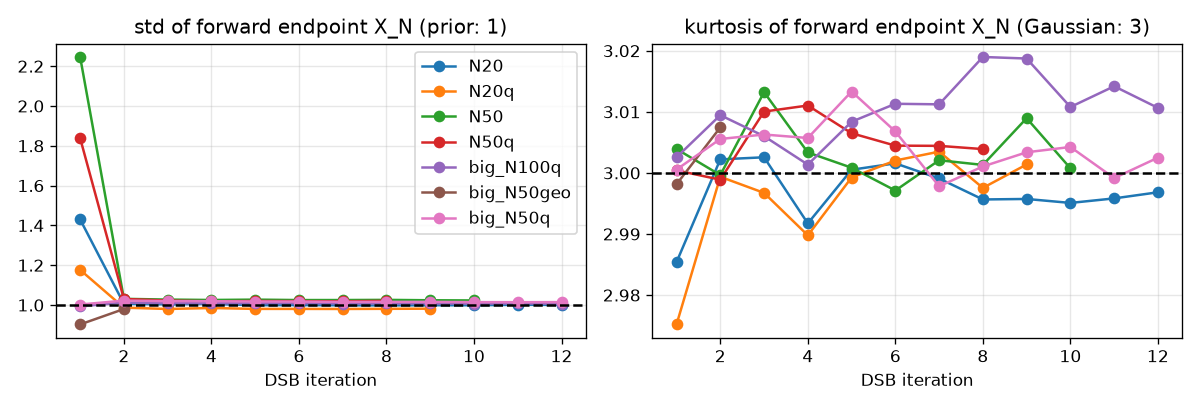
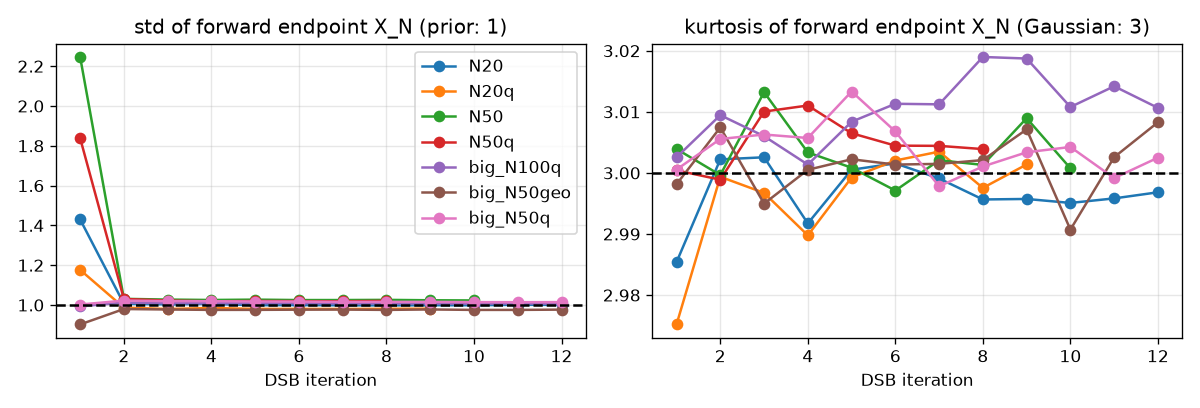
Final results incl. completed geometric run (FID 186 -> 112)

diff --git a/README.md b/README.md
@@ -257,22 +257,22 @@ is designed for.
 **FID (5 000 samples) per DSB iteration.**  Iteration 1 is the classical score-based model
 obtained from the first backward half-step; every further row is one more IPF iteration.  The
 table is regenerated by `scripts/plot_results.py` (`figures/fid_table.md`).  All runs are
-complete except `big_N50geo`, see *Status* below.
+complete.
 
 | DSB iteration | N20 | N20q | N50 | N50q | big_N100q | big_N50geo | big_N50q |
 |---|---|---|---|---|---|---|---|
 | 1 | 309.0 | 271.0 | 188.5 | 137.3 | 63.0 | 185.9 | 113.4 |
 | 2 | 280.1 | 243.9 | 157.0 | 119.4 | 46.8 | 153.6 | 70.8 |
-| 3 | 262.2 | 233.3 | 155.7 | 124.2 | 45.6 |  | 69.3 |
-| 4 | 259.1 | 232.2 | 154.5 | 125.2 | 46.0 |  | 67.8 |
-| 5 | 243.1 | 215.6 | 153.8 | 116.0 | 46.0 |  | 69.1 |
-| 6 | 236.8 | 214.6 | 151.4 | 119.8 | 44.7 |  | 68.1 |
-| 7 | 228.8 | 205.1 | 153.1 | 118.9 | 43.4 |  | 70.1 |
-| 8 | 229.0 | 200.9 | 150.6 | 120.2 | 43.5 |  | 71.3 |
-| 9 | 222.9 | 194.0 | 150.3 |  | 46.1 |  | 68.4 |
-| 10 | 225.0 |  | 155.2 |  | 45.4 |  | 67.2 |
-| 11 | 217.0 |  |  |  | 45.7 |  | 66.3 |
-| 12 | 210.2 |  |  |  | 45.8 |  | 69.8 |
+| 3 | 262.2 | 233.3 | 155.7 | 124.2 | 45.6 | 153.4 | 69.3 |
+| 4 | 259.1 | 232.2 | 154.5 | 125.2 | 46.0 | 137.6 | 67.8 |
+| 5 | 243.1 | 215.6 | 153.8 | 116.0 | 46.0 | 140.5 | 69.1 |
+| 6 | 236.8 | 214.6 | 151.4 | 119.8 | 44.7 | 135.8 | 68.1 |
+| 7 | 228.8 | 205.1 | 153.1 | 118.9 | 43.4 | 139.9 | 70.1 |
+| 8 | 229.0 | 200.9 | 150.6 | 120.2 | 43.5 | 132.2 | 71.3 |
+| 9 | 222.9 | 194.0 | 150.3 |  | 46.1 | 127.5 | 68.4 |
+| 10 | 225.0 |  | 155.2 |  | 45.4 | 122.5 | 67.2 |
+| 11 | 217.0 |  |  |  | 45.7 | 117.9 | 66.3 |
+| 12 | 210.2 |  |  |  | 45.8 | 112.1 | 69.8 |
 
 ![fid](figures/cifar_fid.png)
 
@@ -294,7 +294,14 @@ What the numbers show:
   DSB iterations** — the best result of this project, obtained in 7 hours on 6 A100s.  In both
   big runs the second half-step is the single largest improvement, i.e. the bridge correction
   pays off most when the networks have the capacity to represent it.
-* The gain per iteration flattens after 2-8 iterations at these training budgets; the paper's
+* **The paper's own regime (`big_N50geo`, T = 0.63)** behaves differently: the reference chain
+  leaves half of the image in X_N, the first (SGM) iteration is poor (FID 186), and IPF then
+  improves the model almost monotonically over all 12 iterations, 186 → 154 → 138 → 132 → 122 → 112,
+  still falling at the end.  This is the Schrödinger-bridge mechanism the paper advertises — a
+  too-short forward process repaired by IPF — and, at equal compute, it is also the reason to
+  prefer a horizon where the reference already comes close to the prior: the N = 50 quadratic run
+  with T = 1.7 plateaus at 66-70 after two iterations.
+* The gain per iteration flattens after 2-8 iterations when the horizon is long; the paper's
   Figure 6 shows the same saturation.  Further progress would come from more steps N and longer
   half-steps rather than from more IPF iterations.
 
@@ -318,6 +325,14 @@ The best model, `big_N100q` (N = 100, 36M parameters), after its first half-step
 |---|---|
 | ![](figures/cifar10_big_N100q_samples_iter01.png) | ![](figures/cifar10_big_N100q_samples_last.png) |
 
+The paper's short-horizon regime, `big_N50geo` (T = 0.63): after the first half-step (FID 186)
+the samples are fragmented textures; after 12 DSB iterations (FID 112) objects and scenes emerge,
+though noisier than with the longer horizon:
+
+| `big_N50geo` iter 1 | `big_N50geo` iter 12 |
+|---|---|
+| ![](figures/cifar10_big_N50geo_samples_iter01.png) | ![](figures/cifar10_big_N50geo_samples_last.png) |
+
 Trajectory strips (`figures/*_trajectory_*.png`, rows k = N, 3N/4, N/2, N/4, 0) show the backward
 chain from Gaussian noise to a sample, and `figures/*_forward_*.png` the learnt forward chain
 from data to the prior.  The forward-endpoint diagnostics below confirm the mechanism of DSB:
@@ -330,15 +345,12 @@ the implementation notes).
 
 ### Status
 
-Final state (2026-09-15 20:40 UTC).  Complete: Gaussian check, toys and toy sweep, the four
+All runs are complete (2026-09-16 05:50 UTC): Gaussian check, toys and toy sweep, the four
 single-GPU CIFAR runs (`N20` all 12 iterations; `N50`, `N50q`, `N20q` stopped after 10, 8 and 8
-once their FID curves had flattened), and the two 6-GPU runs `big_N50q` (12 iterations, 10.5 h)
-and `big_N100q` (12 iterations, 7 h).  Incomplete: `big_N50geo` (the paper's T = 0.63 horizon)
-stopped at iteration 2 (FID 186 → 154); its 6-GPU job was pre-empted by the N = 100 run when the
-cluster filled up, and the 2-GPU job that resumed it hung for its whole 12-hour allocation in the
-NCCL clique set-up on `hyperplane-4` (`logs/cifar_big_geo_525234.err`) without running a single
-step.  Its checkpoint `runs/cifar10_big_N50geo/ckpt/iter001_backward.eqx` resumes with the
-command in `slurm/overnight.sh` (about 4.5 h on 6 A100s for the remaining iterations).
+once their FID curves had flattened), and the three big runs `big_N50q` (12 iterations, 6 GPUs,
+10.5 h), `big_N100q` (12 iterations, 6 GPUs, 7 h) and `big_N50geo` (12 iterations; 6 GPUs for the
+first two, then 8 GPUs of `lambda-hyperplane0` for the rest after a 2-GPU resume attempt hung in
+the NCCL clique set-up for its whole allocation, `logs/cifar_big_geo_525234.err`).
 
 To refresh tables and figures after further runs:
 

diff --git a/figures/fid_table.md b/figures/fid_table.md
@@ -2,13 +2,13 @@
 |---|---|---|---|---|---|---|---|
 | 1 | 309.0 | 271.0 | 188.5 | 137.3 | 63.0 | 185.9 | 113.4 |
 | 2 | 280.1 | 243.9 | 157.0 | 119.4 | 46.8 | 153.6 | 70.8 |
-| 3 | 262.2 | 233.3 | 155.7 | 124.2 | 45.6 |  | 69.3 |
-| 4 | 259.1 | 232.2 | 154.5 | 125.2 | 46.0 |  | 67.8 |
-| 5 | 243.1 | 215.6 | 153.8 | 116.0 | 46.0 |  | 69.1 |
-| 6 | 236.8 | 214.6 | 151.4 | 119.8 | 44.7 |  | 68.1 |
-| 7 | 228.8 | 205.1 | 153.1 | 118.9 | 43.4 |  | 70.1 |
-| 8 | 229.0 | 200.9 | 150.6 | 120.2 | 43.5 |  | 71.3 |
-| 9 | 222.9 | 194.0 | 150.3 |  | 46.1 |  | 68.4 |
-| 10 | 225.0 |  | 155.2 |  | 45.4 |  | 67.2 |
-| 11 | 217.0 |  |  |  | 45.7 |  | 66.3 |
-| 12 | 210.2 |  |  |  | 45.8 |  | 69.8 |
+| 3 | 262.2 | 233.3 | 155.7 | 124.2 | 45.6 | 153.4 | 69.3 |
+| 4 | 259.1 | 232.2 | 154.5 | 125.2 | 46.0 | 137.6 | 67.8 |
+| 5 | 243.1 | 215.6 | 153.8 | 116.0 | 46.0 | 140.5 | 69.1 |
+| 6 | 236.8 | 214.6 | 151.4 | 119.8 | 44.7 | 135.8 | 68.1 |
+| 7 | 228.8 | 205.1 | 153.1 | 118.9 | 43.4 | 139.9 | 70.1 |
+| 8 | 229.0 | 200.9 | 150.6 | 120.2 | 43.5 | 132.2 | 71.3 |
+| 9 | 222.9 | 194.0 | 150.3 |  | 46.1 | 127.5 | 68.4 |
+| 10 | 225.0 |  | 155.2 |  | 45.4 | 122.5 | 67.2 |
+| 11 | 217.0 |  |  |  | 45.7 | 117.9 | 66.3 |
+| 12 | 210.2 |  |  |  | 45.8 | 112.1 | 69.8 |
